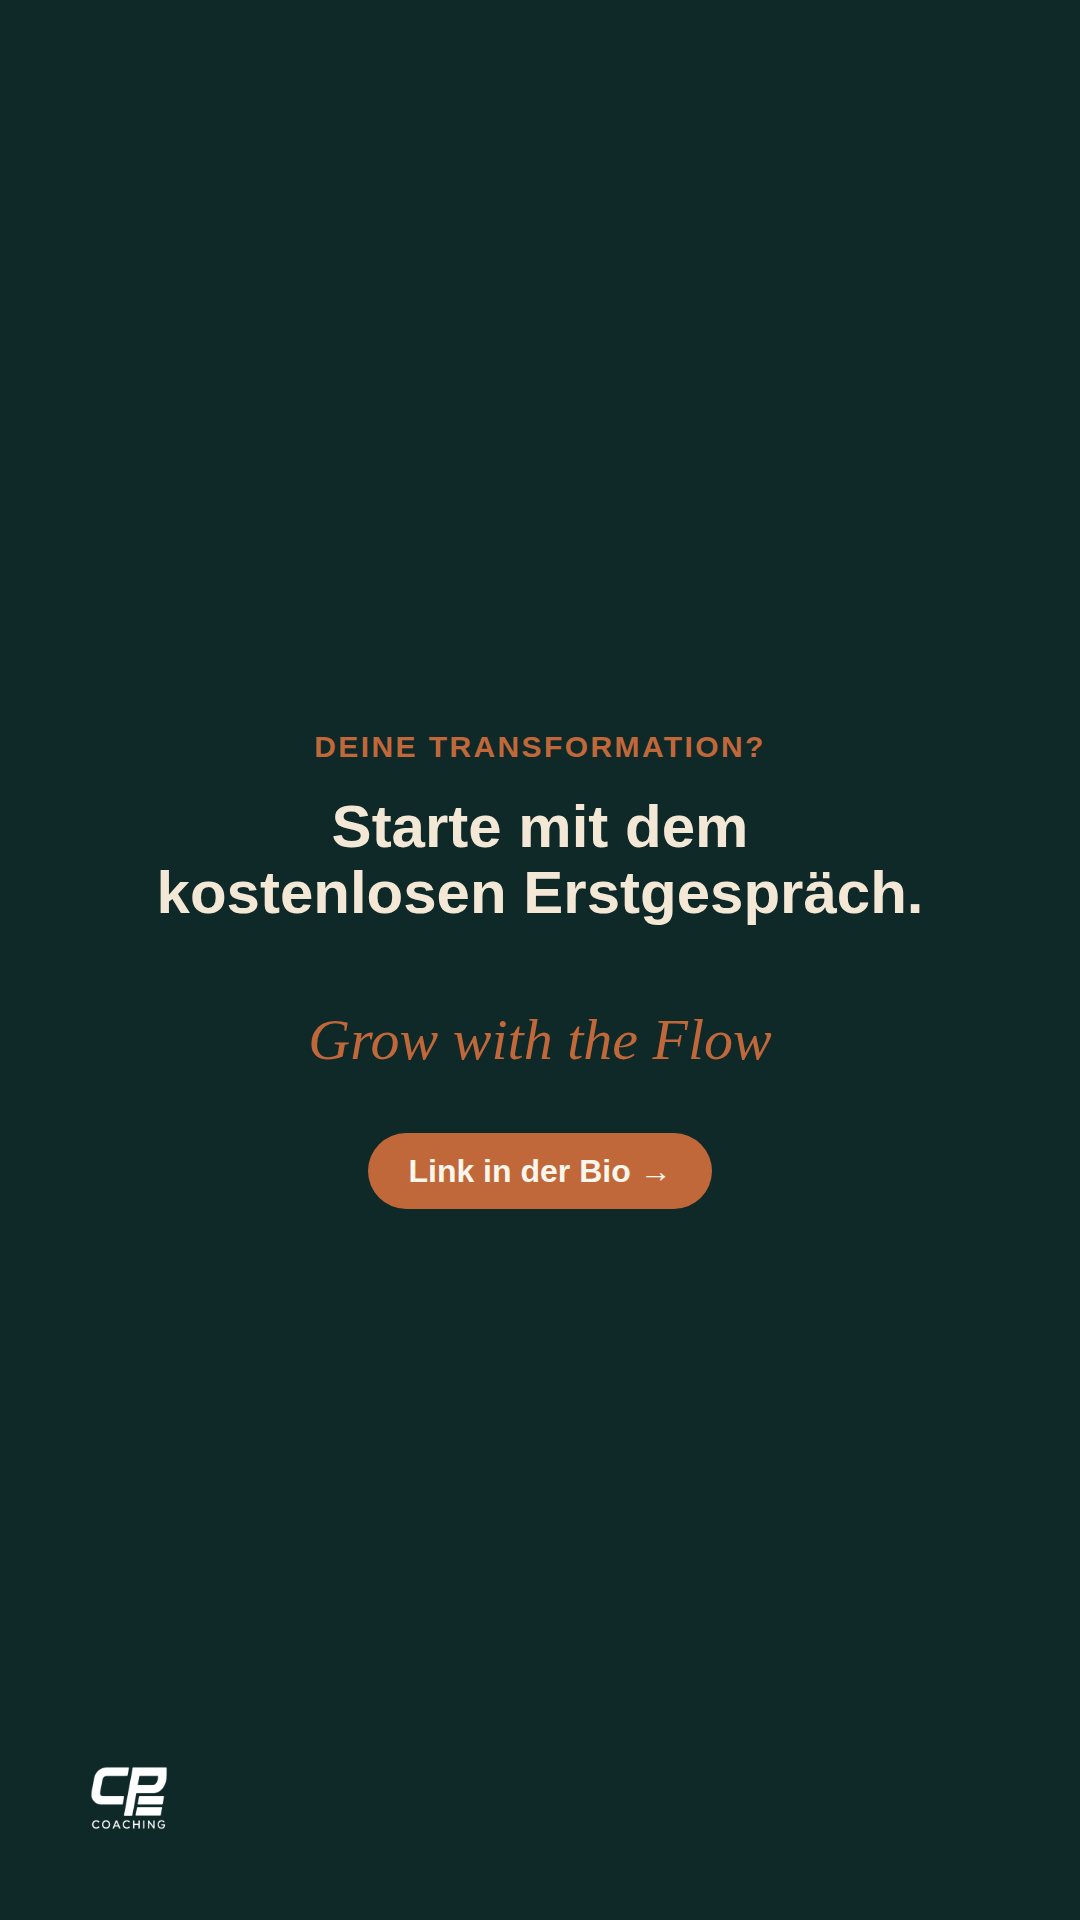
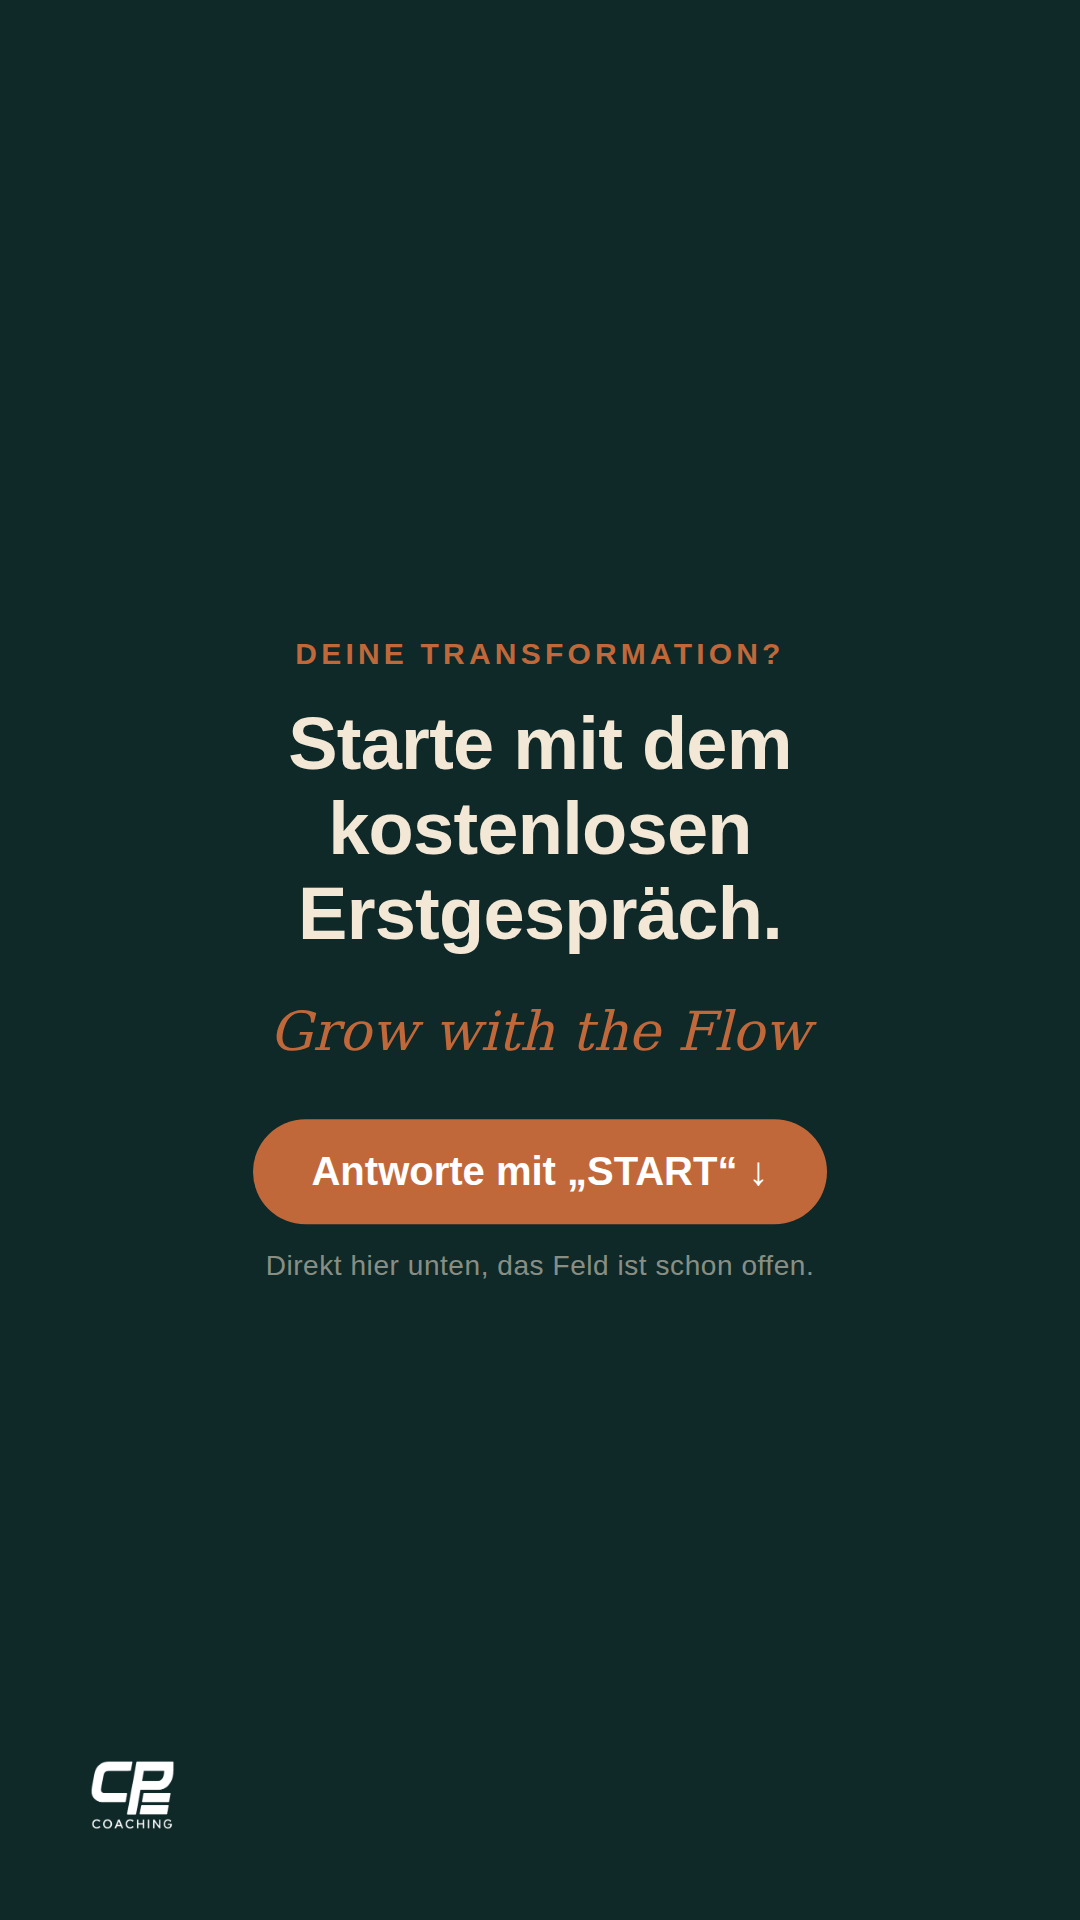
Highlight-CTA von Bio-Link auf Story-Antwort umgestellt

diff --git a/content/Instagram_Highlights/anleitung.md b/content/Instagram_Highlights/anleitung.md
@@ -20,3 +20,18 @@ Leg zuerst **Kundinnen** an, dann **Preise**. Instagram zeigt Highlights in der 
 - Lade die Bilder als **Story hoch**, nicht als Feed-Post, sonst werden sie beschnitten.
 - Poste sie am besten zu einer Zeit, zu der ohnehin wenig los ist (z. B. spät abends), falls du nicht willst, dass sie als reguläre Story im Feed deiner Follower zusätzlich auffallen. Sie verschwinden nach 24 Stunden aus dem Story-Ring, bleiben aber dauerhaft im Highlight.
 - Beide Highlights lassen sich jederzeit erweitern. Sobald du neue Kundenstimmen hast, einfach eine neue Story posten und dem bestehenden Highlight hinzufügen.
+
+## Nachtrag 23.08.2026: CTA korrigiert
+
+Die letzte Story beider Sets sagte ursprünglich „Link in der Bio". Das war ein Denkfehler.
+
+Wer die Preis-Stories durchgetippt hat, kennt die Preise bereits. Ihn auf die Website zu schicken, damit er dort dieselben Preise sieht und anschließend über eine Preiskachel wieder in die Instagram-DM landet, ist eine Runde im Kreis. Bei jedem Wechsel zwischen App und Browser springen Leute ab.
+
+Deshalb: **Im Highlight ist der CTA die Story-Antwort, nicht der Bio-Link.** Das Antwortfeld ist beim Ansehen ohnehin eingeblendet, das sind null Klicks.
+
+- `s4.png` in beiden Sets zeigt jetzt „Antworte mit START".
+- **Kein Link-Sticker** auf den Preis-Stories.
+
+Der Bio-Link bleibt richtig bei **Feed-Posts**. Da kennt der Leser weder Angebot noch Preis, und eine Seite anzuschauen ist anonymer als eine Direktnachricht.
+
+Der Bio-Link ist ausserdem richtig, wenn das Ziel etwas ist, das nur die Website leisten kann: die digitalen Guides bei Digistore24, die Unterseiten zu Personal Training und Ernährungsberatung, die Kundenstimmen im Detail.
